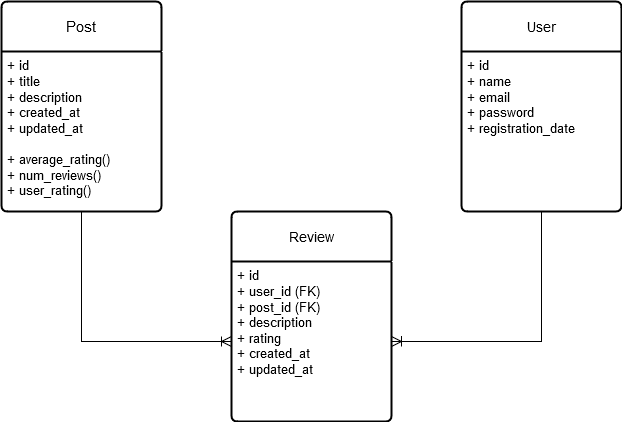
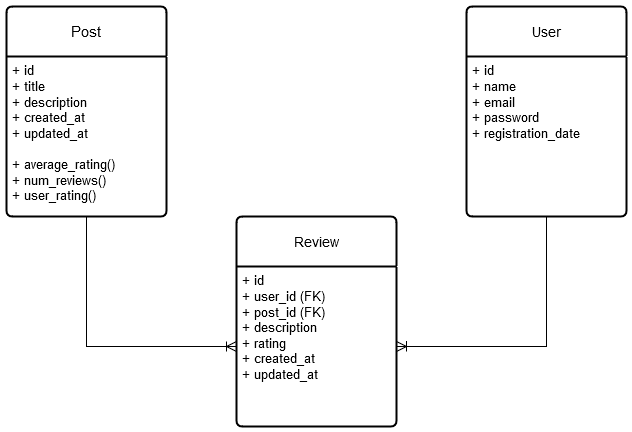
Modify readme

diff --git a/README.md b/README.md
@@ -6,7 +6,10 @@ To compete with Instagram, Google Play, and other rating based systems, I wrote 
 
 We use the following models:
 
-![Entity Model](./Documents/pics/model-entity.png)
+<p align="center">
+<!-- ![Entity Model](./Documents/pics/model-entity.png) -->
+<img src="./Documents/pics/model-entity.png">
+</p>
 
 ## Features & Implementations
 
@@ -21,7 +24,7 @@ The challenge of this feature is calculating the average rating. We could sure f
 
 By using the aggregate function, we make it more efficient by delegating all calculations to the DBMS. This also avoids a lot of traffic between the app and the DBMS since now we don’t need to fetch all the records from Review table.
 
-```
+```python
 def average_rating(self) -> float:
         return Review.objects.filter(post=self).aggregate(Avg("rating"))["rating__avg"] or -1
 ```
